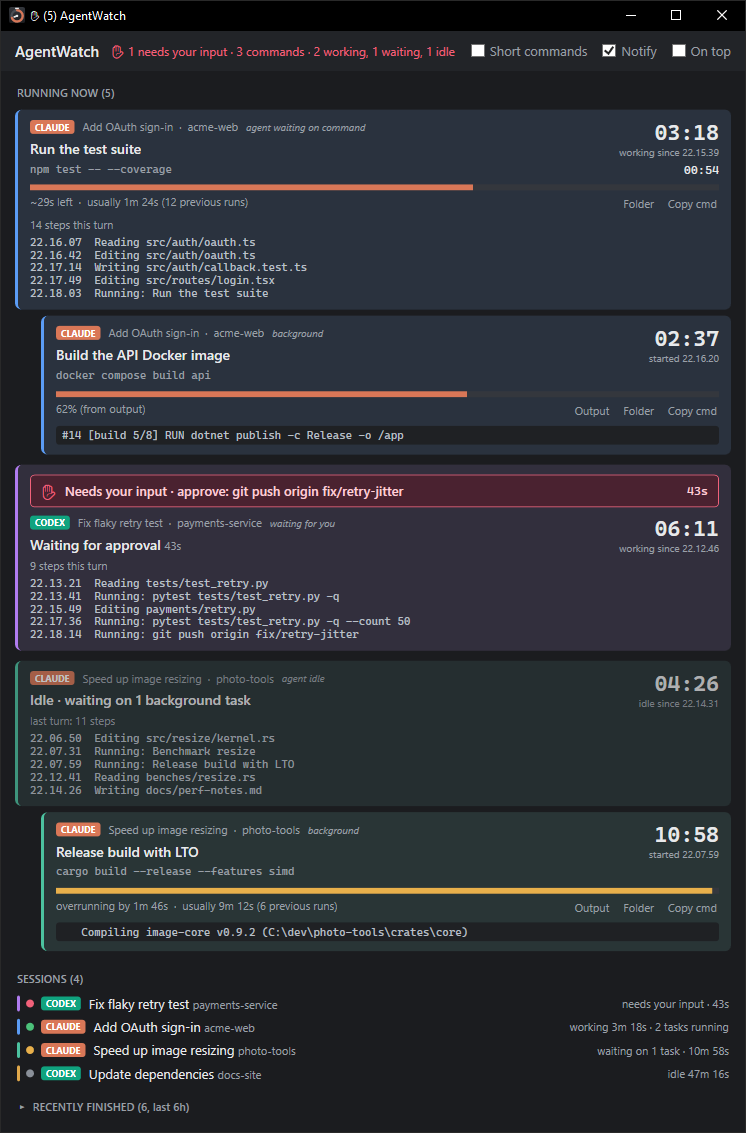
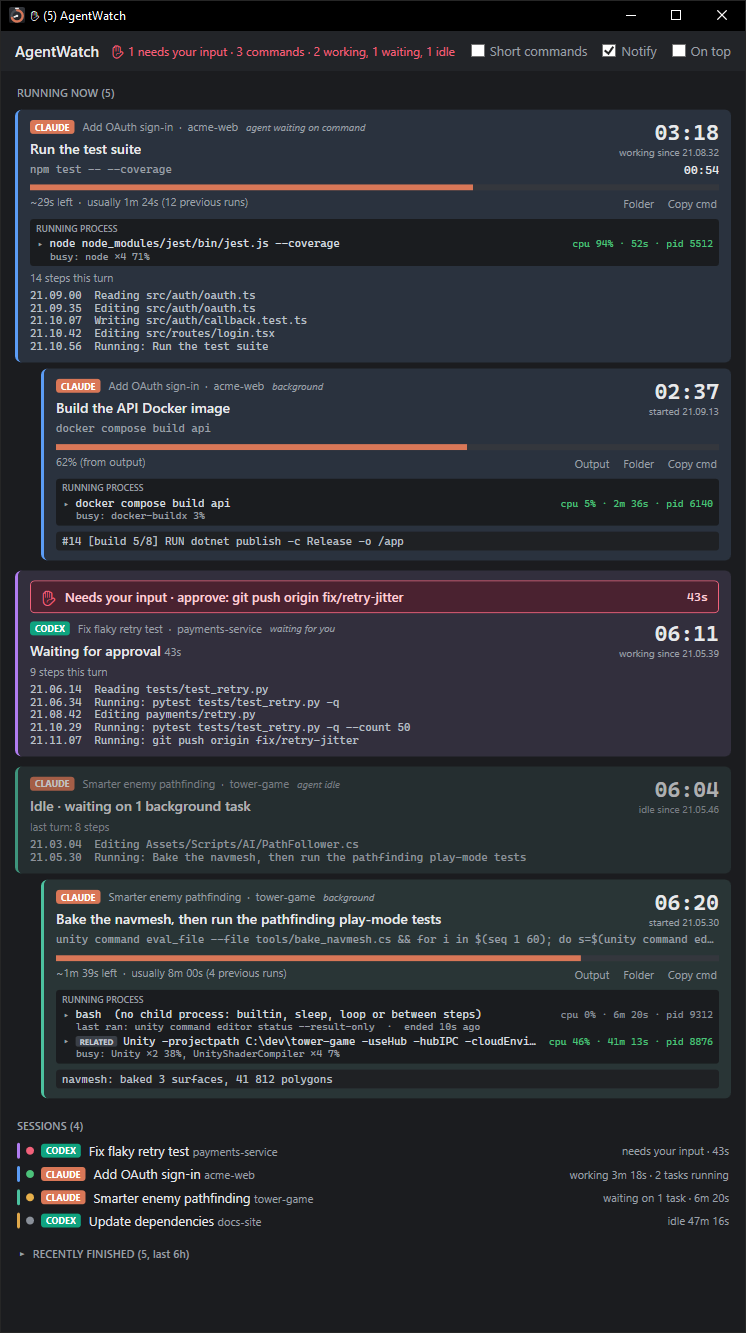
Update README screenshot for the Running process block
Mock data only: made-up sessions, projects and processes.

Changed region(s): [[0.0, 0.0, 1.0, 0.9885], [0.6783, 0.6178, 0.7091, 0.6487]]

diff --git a/README.md b/README.md
@@ -4,7 +4,7 @@ A small Windows app (WPF, .NET 10) that shows what **Claude Code** and **OpenAI 
 every shell command and subagent, foreground or background, with a live timer, an estimated progress bar,
 and the latest output line.
 
-![AgentWatch showing Claude Code and Codex sessions with running commands, progress bars and an approval prompt](docs/screenshot.png)
+![AgentWatch showing Claude Code and Codex sessions with running commands, the processes they are running, progress bars and an approval prompt](docs/screenshot.png)
 
 ## Requirements
 
